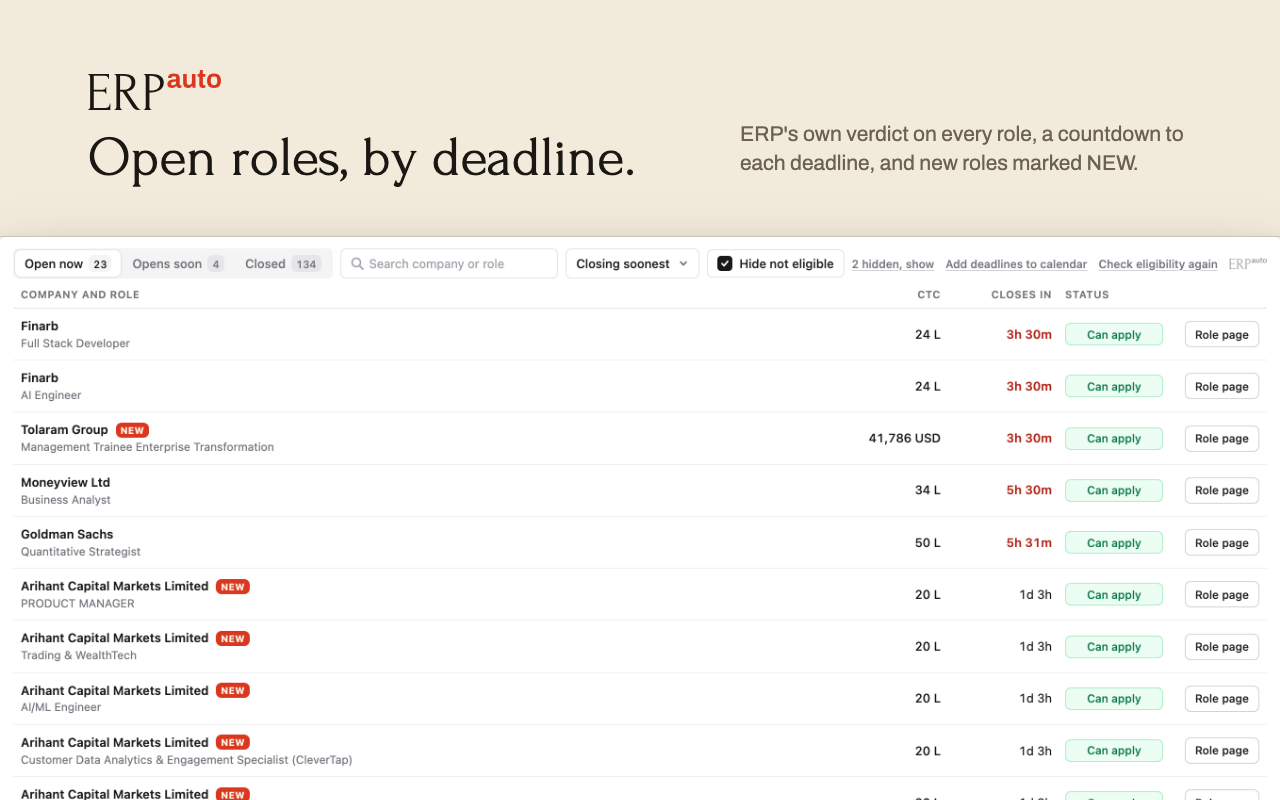
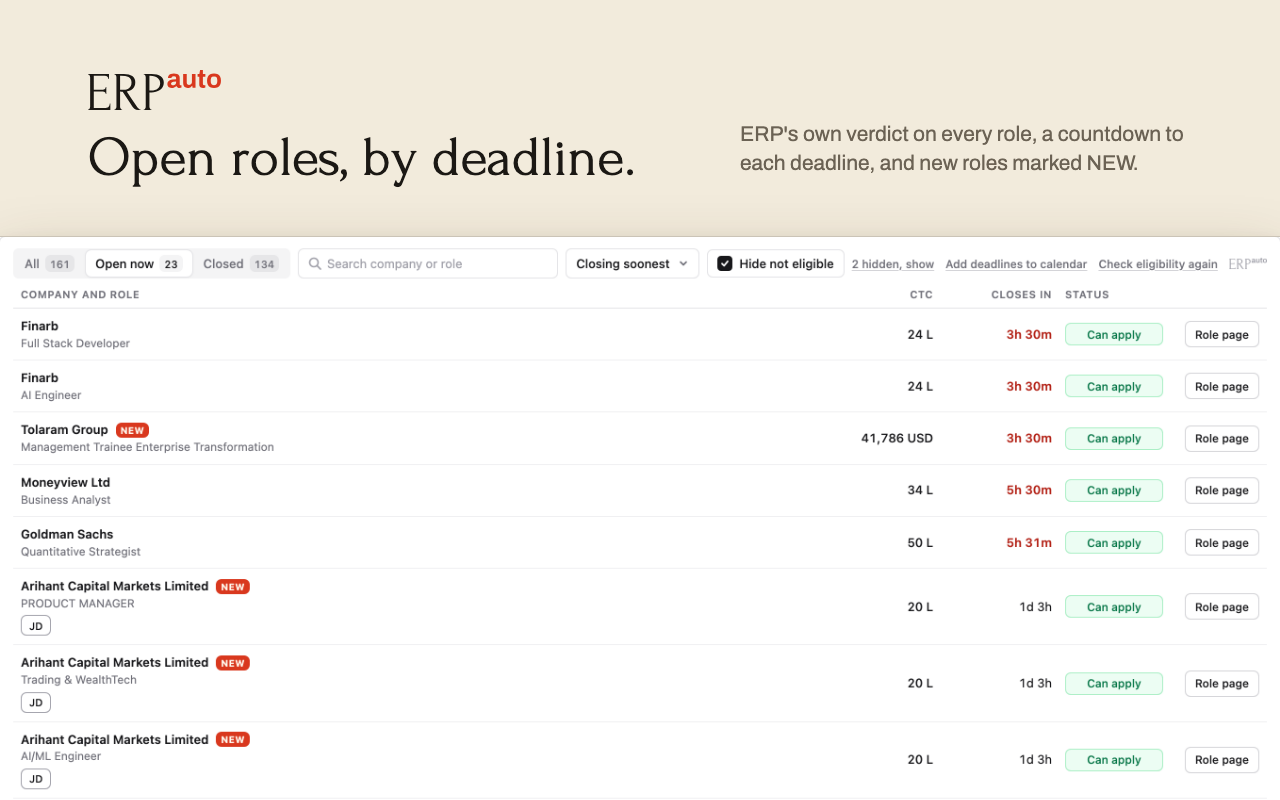
docs: store shot 4 on the All / Open now / Closed board

diff --git a/README.md b/README.md
@@ -57,7 +57,7 @@ Once ERP has every form, the fold shows **Download admit card** instead.
 
 Open CDC's company page or notice board in ERP and AutoERP puts its own board above ERP's grid, which stays where it was.
 
-- Companies: **Open now**, **Opens soon** and **Closed** tabs, open roles by deadline with a countdown, the CTC as "18.15 L", and ERP's own verdict for each role: Applied, Can apply, Not eligible (with ERP's reason) or Check on ERP. Roles ERP says you aren't eligible for are hidden behind a count you can click. Roles added since your last visit say NEW.
+- Companies: **All**, **Open now** and **Closed** tabs, open roles by deadline with a countdown, roles not open yet under **All** with the time until they open, the CTC as "18.15 L", and ERP's own verdict for each role: Applied, Can apply, Not eligible (with ERP's reason) or Check on ERP. Roles ERP says you aren't eligible for are hidden behind a count you can click. Roles added since your last visit say NEW.
 - Notices: the full text of every notice, search, category and Placement/Internship filters, NEW since your last visit, and **My companies** for notices about the companies you applied to.
 - Notice text keeps ERP's formatting and its links, which open in a new tab.
 - Each notice carries a tag for what it asks of you: a form to fill, a list you are in, a deadline.
